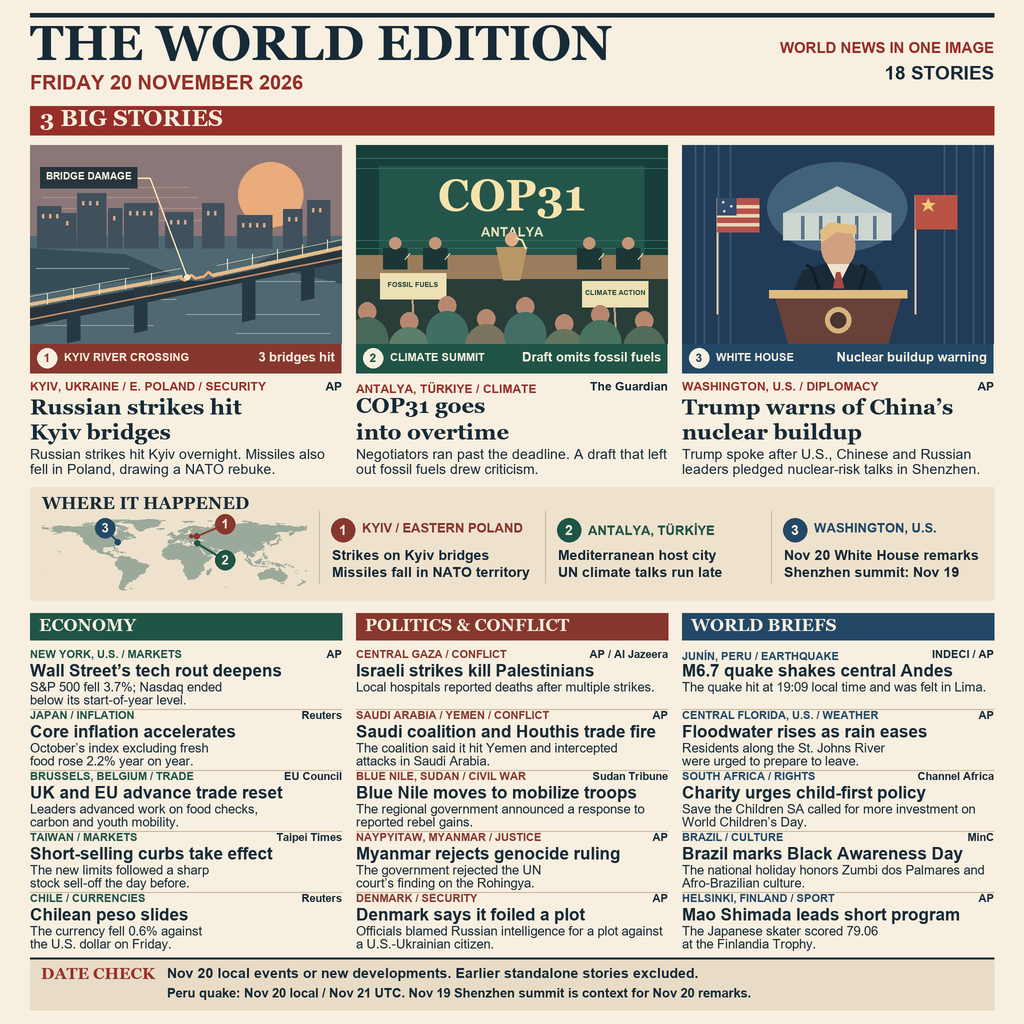
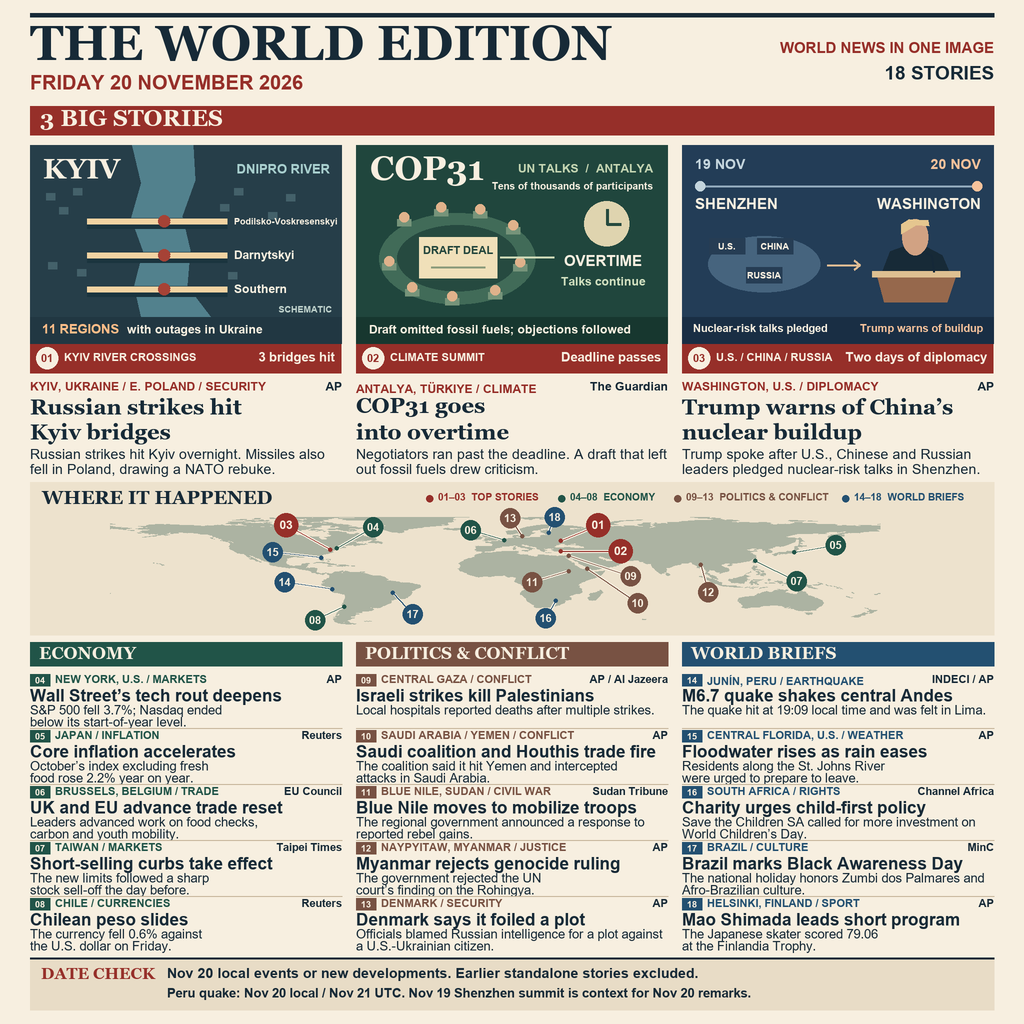
Explain the leads and map all eighteen Ver.4 stories

diff --git a/render_v4.py b/render_v4.py
@@ -1,14 +1,17 @@
-"""Render the three-lead Ver.4 with an atlas strip and fifteen selected briefs."""
+"""Render Ver.4 with three explanatory panels and an atlas of all 18 stories."""
 
 import argparse
 import json
+from itertools import combinations
+from math import hypot
 from pathlib import Path
 
 from PIL import Image
 
 from edition_v3 import LEADS, SECTIONS
 from render_v3 import BOLD, COLUMN, INK, LEFT, PAGE, PAPER, PITCH, RED, RIGHT, RULE, SERIF
-from render_v3 import Canvas, draw_antalya, draw_kyiv, draw_washington, pixels
+from render_v3 import Canvas, pixels
+from v4_illustrations import climate_talks, kyiv_bridges, nuclear_timeline
 
 
 SELECTED = (
@@ -17,16 +20,15 @@ SELECTED = (
     ("peru", "flood", "children", "brazil", "skating"),
 )
 
-PLACES = (
-    ("KYIV / EASTERN POLAND", ("Strikes on Kyiv bridges", "Missiles fall in NATO territory"), "#87372e"),
-    ("ANTALYA, TÜRKİYE", ("Mediterranean host city", "UN climate talks run late"), "#1f5446"),
-    ("WASHINGTON, U.S.", ("Nov 20 White House remarks", "Shenzhen summit: Nov 19"), "#234866"),
-)
+ECONOMY = "#215448"
+POLITICS = "#785243"
+BRIEFS = "#235071"
+LAND_DATA = Path(__file__).with_name("assets") / "ne_110m_land.geojson"
 
 ART_NOTES = (
-    ("KYIV RIVER CROSSING", "3 bridges hit"),
-    ("CLIMATE SUMMIT", "Draft omits fossil fuels"),
-    ("WHITE HOUSE", "Nuclear buildup warning"),
+    ("KYIV RIVER CROSSINGS", "3 bridges hit"),
+    ("CLIMATE SUMMIT", "Deadline passes"),
+    ("U.S. / CHINA / RUSSIA", "Two days of diplomacy"),
 )
 
 LEAD_COPY = (
@@ -35,13 +37,52 @@ LEAD_COPY = (
     "Trump spoke after U.S., Chinese and Russian leaders pledged nuclear-risk talks in Shenzhen.",
 )
 
+# Verified event, venue or representative location, longitude/latitude, and label center.
+# Country-wide stories use representative points as documented in README.md.
+MAP_POINTS = {
+    "kyiv": ("Kyiv", 30.515, 50.435, 589, 525),
+    "cop31": ("Antalya", 30.698, 36.892, 609, 551),
+    "nuclear": ("Washington, D.C.", -77.011, 38.901, 310, 525),
+    "stocks": ("New York City", -73.996, 40.722, 388, 527),
+    "japan": ("Tokyo", 139.749, 35.687, 801, 545),
+    "uk-eu": ("Brussels", 4.331, 50.835, 475, 530),
+    "taiwan": ("Taipei", 121.568, 25.036, 766, 581),
+    "chile": ("Santiago", -70.651, -33.440, 336, 620),
+    "gaza": ("Deir al-Balah", 34.35, 31.42, 618, 576),
+    "yemen": ("Al Hudaydah", 42.951, 14.800, 624, 603),
+    "sudan": ("Ed Damazin", 34.350, 11.770, 530, 582),
+    "myanmar": ("Naypyitaw", 96.117, 19.769, 687, 592),
+    "denmark": ("Copenhagen", 12.565, 55.671, 510, 518),
+    "peru": ("Junín epicentral area", -76.19, -10.97, 309, 582),
+    "flood": ("Sanford, central St. Johns River", -81.280, 28.790, 298, 552),
+    "children": ("Pretoria", 28.227, -25.705, 542, 618),
+    "brazil": ("Brasília", -47.918, -15.781, 423, 614),
+    "skating": ("Helsinki", 24.932, 60.164, 550, 517),
+}
 
-def draw_locations(sheet, land_path):
-    sheet.rect((LEFT, 487, RIGHT, 600), "#eee2cd")
-    sheet.text(42, 497, "WHERE IT HAPPENED", 17, INK, SERIF)
+
+def badge(sheet, number, x, y, color, radius, size):
+    sheet.oval((x-radius, y-radius, x+radius, y+radius), color)
+    sheet.text(x, y, f"{number:02}", size, PAPER, anchor="mm")
+
+
+def draw_locations(sheet, land_path, stories):
+    sheet.rect((LEFT, 482, RIGHT, 635), "#ede2cd")
+    sheet.text(42, 491, "WHERE IT HAPPENED", 19, INK, SERIF)
+    for x, label, color in (
+        (426, "01–03  TOP STORIES", RED),
+        (558, "04–08  ECONOMY", ECONOMY),
+        (674, "09–13  POLITICS & CONFLICT", POLITICS),
+        (842, "14–18  WORLD BRIEFS", BRIEFS),
+    ):
+        sheet.oval((x, 495, x+7, 502), color)
+        sheet.text(x+12, 493, label, 10, color)
+
+    def atlas_x(x):
+        return 512 + (x - 512) * 1.12
 
     def project(lon, lat):
-        return 42 + (lon + 180) * 0.735, 519 + (84 - lat) * 0.51
+        return atlas_x(153 + (lon + 180) * 1.91), 517 + (80 - lat) * 0.79
 
     data = json.loads(land_path.read_text(encoding="utf-8"))
     for feature in data["features"]:
@@ -52,28 +93,26 @@ def draw_locations(sheet, land_path):
         for exterior, *_ in shapes:
             if max(lat for _, lat in exterior) >= -60:
                 points = tuple(value for lon, lat in exterior
-                               for value in project(lon, max(lat, -60)))
-                sheet.polygon(points, "#9ba99b")
+                               for value in project(lon, min(80, max(lat, -58))))
+                sheet.polygon(points, "#acb3a2")
 
-    markers = ((30.52, 50.45, 225, 524), (30.70, 36.90, 225, 560), (-77.04, 38.91, 105, 528))
-    poland_x, poland_y = project(22.9, 50.6)
-    sheet.oval((poland_x-2, poland_y-2, poland_x+2, poland_y+2), PLACES[0][2])
-    for index, ((lon, lat, x, y), (name, lines, color)) in enumerate(
-        zip(markers, PLACES, strict=True), start=1
-    ):
+    markers = []
+    for number, (story, color) in enumerate(stories, start=1):
+        _, lon, lat, x, y = MAP_POINTS[story.id]
+        x = atlas_x(x)
+        radius = 12 if number <= 3 else 10
+        if not (LEFT+radius <= x <= RIGHT-radius and 505+radius <= y <= 635-radius):
+            raise ValueError(f"Map label outside its area: {story.id}")
+        markers.append((number, color, x, y, radius))
         px, py = project(lon, lat)
-        sheet.line((px, py, x, y), color, 2)
-        sheet.oval((px-3, py-3, px+3, py+3), color)
-        sheet.oval((x-10, y-10, x+10, y+10), color)
-        sheet.text(x, y, str(index), 13, PAPER, anchor="mm")
-
-        left = 319 + (index-1) * 226
-        sheet.line((left, 511, left, 583), RULE)
-        sheet.oval((left+12, 518, left+36, 542), color)
-        sheet.text(left+24, 530, str(index), 14, PAPER, anchor="mm")
-        sheet.text(left+43, 523, name, 13, color, limit=178)
-        for row, words in enumerate(lines):
-            sheet.text(left+13, 550+17*row, words, 14, face=BOLD, limit=207)
+        sheet.line((px, py, x, y), PAPER, 3)
+        sheet.line((px, py, x, y), color, 1.25)
+        sheet.oval((px-2, py-2, px+2, py+2), color)
+    for first, second in combinations(markers, 2):
+        if hypot(first[2]-second[2], first[3]-second[3]) < first[4]+second[4]+2:
+            raise ValueError(f"Overlapping map labels: {first[0]} and {second[0]}")
+    for number, color, x, y, radius in markers:
+        badge(sheet, number, x, y, color, radius, 12 if number <= 3 else 11)
 
 
 def render(land_path, fonts, output):
@@ -82,28 +121,30 @@ def render(land_path, fonts, output):
     sheet.text(LEFT, 25, "THE WORLD EDITION", 49, face=SERIF)
     sheet.text(LEFT, 75, "FRIDAY 20 NOVEMBER 2026", 20, RED)
     sheet.text(RIGHT, 42, "WORLD NEWS IN ONE IMAGE", 15, RED, anchor="rt")
-    story_count = len(LEADS) + sum(map(len, SELECTED))
-    sheet.text(RIGHT, 66, f"{story_count} STORIES", 19, anchor="rt")
+    sections = []
+    for (name, stories), ids, color in zip(SECTIONS, SELECTED,
+                                            (ECONOMY, POLITICS, BRIEFS), strict=True):
+        by_id = {story.id: story for story in stories}
+        sections.append((name, tuple(by_id[story_id] for story_id in ids), color))
+    mapped_stories = [(story, RED) for story in LEADS]
+    mapped_stories.extend((story, color) for _, stories, color in sections for story in stories)
+    if len(mapped_stories) != len(MAP_POINTS) or {s.id for s, _ in mapped_stories} != MAP_POINTS.keys():
+        raise ValueError("Every article must have exactly one map point")
+    sheet.text(RIGHT, 66, f"{len(mapped_stories)} STORIES", 19, anchor="rt")
 
     sheet.rect((LEFT, 106, RIGHT, 135), RED)
     sheet.text(LEFT+10, 110, "3 BIG STORIES", 23, PAPER, SERIF)
-    scenes = (draw_kyiv, draw_antalya, draw_washington)
-    backgrounds = ("#8c7778", "#214b45", "#223b57")
-    for index, (story, scene, bg, (scene_label, finding), (_, _, color), summary) in enumerate(
-        zip(LEADS, scenes, backgrounds, ART_NOTES, PLACES, LEAD_COPY, strict=True), start=1
+    scenes = (kyiv_bridges, climate_talks, nuclear_timeline)
+    for index, (story, scene, (scene_label, finding), summary) in enumerate(
+        zip(LEADS, scenes, ART_NOTES, LEAD_COPY, strict=True), start=1
     ):
         x = LEFT + (index-1)*PITCH
-        art = Canvas(COLUMN, 199, bg, fonts)
+        art = Canvas(COLUMN, 199, PAPER, fonts)
         scene(art)
-        if story.id == "kyiv":
-            art.line((157, 132, 120, 33, 106, 33), "#f6e3b6", 1.5)
-            art.oval((154, 129, 160, 135), "#f6e3b6")
-            art.rect((10, 22, 107, 43), "#28343b")
-            art.text(16, 27, "BRIDGE DAMAGE", 10, PAPER)
         sheet.image.paste(art.image, pixels((x, 145)))
-        sheet.rect((x, 344, x+COLUMN-1, 373), color)
-        sheet.oval((x+7, 348, x+27, 368), PAPER)
-        sheet.text(x+17, 358, str(index), 12, color, anchor="mm")
+        sheet.rect((x, 344, x+COLUMN-1, 373), RED)
+        sheet.oval((x+6, 347, x+28, 369), PAPER)
+        sheet.text(x+17, 358, f"{index:02}", 11, RED, anchor="mm")
         note_width = COLUMN - 49 - sheet.width(finding, 13, BOLD)
         sheet.text(x+34, 353, scene_label, 11, PAPER, limit=note_width)
         sheet.text(x+COLUMN-7, 352, finding, 13, PAPER, anchor="rt")
@@ -114,24 +155,24 @@ def render(land_path, fonts, output):
             sheet.text(x, 398+25*row, words, 22, face=SERIF, limit=COLUMN)
         sheet.paragraph(x, 449, summary, 14, COLUMN, 2, 15)
 
-    draw_locations(sheet, land_path)
+    draw_locations(sheet, land_path, mapped_stories)
 
-    for col, ((name, stories), ids) in enumerate(zip(SECTIONS, SELECTED, strict=True)):
+    for col, (name, stories, color) in enumerate(sections):
         x = LEFT + col*PITCH
-        color = ("#1f5446", "#87372e", "#234866")[col]
-        sheet.rect((x, 613, x+COLUMN, 640), color)
-        sheet.text(x+9, 619, name, 17, PAPER, SERIF)
-        by_id = {story.id: story for story in stories}
-        for row, story_id in enumerate(ids):
-            story = by_id[story_id]
-            y = 650 + 61*row
-            available = COLUMN - sheet.width(story.source, 11, BOLD) - 6
-            sheet.text(x, y, f"{story.where} / {story.beat}".upper(), 11, color, limit=available)
+        sheet.rect((x, 642, x+COLUMN, 666), color)
+        sheet.text(x+9, 647, name, 17, PAPER, SERIF)
+        for row, story in enumerate(stories):
+            number = len(LEADS) + sum(len(entries) for _, entries, _ in sections[:col]) + row + 1
+            y = 675 + 56*row
+            sheet.rect((x, y-1, x+20, y+11), color)
+            sheet.text(x+10, y+5, f"{number:02}", 9, PAPER, anchor="mm")
+            available = COLUMN - sheet.width(story.source, 11, BOLD) - 31
+            sheet.text(x+25, y, f"{story.where} / {story.beat}".upper(), 11, color, limit=available)
             sheet.text(x+COLUMN, y, story.source, 11, anchor="rt")
             sheet.text(x, y+14, story.headline, 17, limit=COLUMN)
-            sheet.paragraph(x, y+32, story.detail, 13, COLUMN, 2, 13)
-            if row < len(ids)-1:
-                sheet.line((x, y+59, x+COLUMN, y+59), RULE)
+            sheet.paragraph(x, y+30, story.detail, 13, COLUMN, 2, 12)
+            if row < len(stories)-1:
+                sheet.line((x, y+53, x+COLUMN, y+53), RULE)
 
     sheet.rect((LEFT, 958, RIGHT, 1010), "#e8dcc6")
     sheet.line((LEFT, 958, RIGHT, 958), INK, 2)
@@ -143,7 +184,7 @@ def render(land_path, fonts, output):
 
 if __name__ == "__main__":
     parser = argparse.ArgumentParser(description=__doc__)
-    parser.add_argument("land", type=Path)
+    parser.add_argument("land", type=Path, nargs="?", default=LAND_DATA)
     parser.add_argument("--fonts", type=Path, default=Path("C:/Windows/Fonts"))
     options = parser.parse_args()
     render(options.land, options.fonts, Path(__file__).with_name("world-edition-v4.png"))

diff --git a/v4_illustrations.py b/v4_illustrations.py
@@ -1,0 +1,77 @@
+"""Original explanatory panels for Ver.4, drawn in a common newsroom style."""
+
+from render_v3 import INK, PAPER, SERIF
+
+
+def kyiv_bridges(art):
+    """Show the three reported crossings without assigning damage severity."""
+    art.rect((0, 0, 312, 199), "#263e49")
+    art.polygon((102, 0, 163, 0, 165, 35, 152, 71, 160, 105,
+                 157, 141, 183, 175, 180, 199, 111, 199, 111, 172,
+                 104, 141, 113, 106, 101, 73, 111, 38), "#52818d")
+    for x, y in ((16, 48), (29, 62), (43, 43), (190, 59), (204, 43),
+                 (238, 67), (256, 49), (18, 117), (47, 124), (198, 127)):
+        art.rect((x, y, x+9, y+7), "#44616a")
+    art.text(13, 14, "KYIV", 28, PAPER, SERIF)
+    art.text(300, 19, "DNIPRO RIVER", 13, "#a8cfce", anchor="rt")
+    for y, name in ((76, "Podilsko-Voskresenskyi"), (110, "Darnytskyi"), (144, "Southern")):
+        art.line((57, y+2, 197, y+2), "#1a343e", 11)
+        art.line((57, y, 197, y), "#f2d3a2", 6)
+        art.oval((128, y-6, 140, y+6), "#a64236")
+        art.line((140, y, 197, y), "#f2d3a2", 1)
+        art.text(204, y, name, 9 if y == 76 else 12, PAPER, anchor="lm", limit=105)
+    art.rect((0, 172, 312, 199), "#213742")
+    art.text(12, 179, "11 REGIONS", 13, "#ffbd88")
+    art.text(97, 180, "with outages in Ukraine", 12, PAPER)
+    art.text(302, 161, "SCHEMATIC", 9, "#bed1cb", anchor="rt")
+
+
+def climate_talks(art):
+    art.rect((0, 0, 312, 199), "#20463d")
+    art.text(14, 11, "COP31", 34, PAPER, SERIF)
+    art.text(297, 19, "UN TALKS  /  ANTALYA", 12, "#c4d5b2", anchor="rt")
+    art.text(297, 37, "Tens of thousands of participants", 10, PAPER, anchor="rt")
+    # Delegations around the floor, with a shared draft and a deadline clock.
+    art.oval((23, 68, 179, 159), "#416b58")
+    art.oval((41, 80, 161, 146), "#264a40")
+    for x, y in ((48, 75), (85, 65), (124, 67), (157, 83), (164, 120),
+                 (139, 148), (96, 154), (56, 145), (33, 119)):
+        art.rect((x-7, y-1, x+7, y+6), "#76947a")
+        art.oval((x-5, y-8, x+5, y+2), "#e0b28b")
+    art.rect((63, 92, 141, 133), "#f0e0b9")
+    art.text(102, 101, "DRAFT DEAL", 11, "#22453c", anchor="mt")
+    art.line((75, 122, 129, 122), "#8d9c7c", 2)
+    art.line((144, 112, 198, 112), "#cdd9b7", 2)
+    art.oval((228, 56, 273, 101), "#dfd4af")
+    art.line((251, 64, 251, 79, 265, 79), "#25493e", 3)
+    art.text(247, 110, "OVERTIME", 15, PAPER, anchor="mt")
+    art.text(247, 132, "Talks continue", 12, "#d0dfbf", anchor="mt")
+    art.rect((0, 172, 312, 199), "#17372f")
+    art.text(13, 180, "Draft omitted fossil fuels; objections followed", 12, PAPER)
+
+
+def nuclear_timeline(art):
+    art.rect((0, 0, 312, 199), "#233d57")
+    art.text(13, 14, "19 NOV", 14, "#c4d5dd")
+    art.text(299, 14, "20 NOV", 14, "#f6c29b", anchor="rt")
+    art.line((13, 41, 299, 41), "#92aabc", 2)
+    art.oval((13, 36, 23, 46), "#c4d5dd")
+    art.oval((290, 36, 300, 46), "#f6c29b")
+    art.text(13, 53, "SHENZHEN", 15, PAPER)
+    art.text(299, 53, "WASHINGTON", 15, PAPER, anchor="rt")
+    # A shared negotiating table and the following day's podium.
+    art.oval((26, 91, 138, 147), "#46647e")
+    for x, y, name in ((45, 101, "U.S."), (93, 101, "CHINA"), (82, 130, "RUSSIA")):
+        art.rect((x-18, y-8, x+18, y+8), "#263d54")
+        art.text(x, y, name, 9, PAPER, anchor="mm")
+    art.line((145, 120, 178, 120), "#dfbc94", 2)
+    art.line((172, 115, 178, 120, 172, 125), "#dfbc94", 2)
+    art.polygon((198, 132, 208, 106, 222, 101, 243, 101, 260, 110, 269, 131), INK)
+    art.oval((220, 74, 246, 110), "#d1a283")
+    art.polygon((219, 89, 219, 79, 227, 74, 246, 75, 247, 81, 234, 80), "#e5c68f")
+    art.polygon((194, 127, 275, 127, 265, 157, 202, 157), "#96684c")
+    art.rect((190, 126, 278, 132), "#dec091")
+    art.line((252, 127, 250, 111, 244, 108), "#152838", 2)
+    art.rect((0, 172, 312, 199), "#192e44")
+    art.text(11, 179, "Nuclear-risk talks pledged", 11, PAPER)
+    art.text(301, 179, "Trump warns of buildup", 11, "#f6c29b", anchor="rt")

diff --git a/README.md b/README.md
@@ -4,7 +4,7 @@
 
 # The World Edition
 
-2026年11月20日（金）の世界ニュース18件をまとめた英語版。Ver.4は「3 BIG STORIES」を上段に置き、同じ番号で挿絵、位置図、地名を結び付けた。下段は経済、政治と紛争、世界短報の各5件。記事ごとに場所、説明、出典を記した。
+2026年11月20日（金）の世界ニュース18件をまとめた英語版。Ver.4は「3 BIG STORIES」の図解に続き、全18件を番号で引ける世界地図を掲載した。下段は経済、政治と紛争、世界短報の各5件。記事ごとに場所、説明、出典を記した。
 
 ![The World Edition, 20 November 2026, Version 4](world-edition-v4.png)
 
@@ -24,7 +24,13 @@ Get-FileHash output/entry.png -Algorithm SHA256
 
 ### 画像を編集する場合
 
-`python render_v4.py <land.geojson> --fonts <フォントのディレクトリ>` でVer.4を再描画できる。描画にはPillow 12.3.0、ArialとGeorgia、Natural Earthの陸域データのローカルコピーを使う。採用記事IDは `render_v4.py` にあり、出典は [編集台帳](edition_v3.py) の対応する記事に記載した。 [Natural Earth 陸域データ](https://github.com/nvkelso/natural-earth-vector/blob/master/geojson/ne_110m_land.geojson)
+`python render_v4.py` でVer.4を再描画できる。描画にはPillow 12.3.0、ArialとGeorgia、同梱のNatural Earthの陸域データを使う。フォントの場所は `--fonts` で指定できる。採用記事IDと座標は [render_v4.py](render_v4.py)、出典は [編集台帳](edition_v3.py) に記載した。 [Natural Earth 陸域データ](https://github.com/nvkelso/natural-earth-vector/blob/master/geojson/ne_110m_land.geojson)
+
+### Ver.4の図解と地図
+
+掲載18件を2026年11月22日JSTに再照合した。キーウの3橋は市長が発表した橋名を採用し、ドニプロ川を渡る関係を模式図で示した。被害箇所の形状や程度は模式図に反映していない。「11 REGIONS」はウクライナ国内で緊急停電が起きた地域数。COP31は20日に協議が延長された時点を掲載し、深圳の3か国会談（19日）とワシントンでの発言（20日）を時系列で区別した。 [キーウの橋・Kyiv Independent](https://kyivindependent.com/russia-launches-mass-missile-attack-against-ukraine-after-putin-vows-revenge/) · [停電・AP](https://apnews.com/article/433e18f00cbd37a2a9da94e60fce0e07) · [COP31・UNFCCC](https://unfccc.int/cop31) · [深圳の共同宣言](https://www.fmprc.gov.cn/eng/xw/zyxw/202611/t20261119_12063224.html)
+
+番号の引き出し線は発生地、会場、発表地、または地域の代表地点を指す。複数地点を扱う01はキーウ、09は中部ガザのデイル・アルバラフ、10はイエメンのホデイダ、15はセントジョンズ川沿いのサンフォードを採用。日本、台湾、チリ、デンマーク、南アフリカ、ブラジルは記事の対象地域を示すため、東京、台北、サンティアゴ、コペンハーゲン、プレトリア、ブラジリアを代表点とした。ペルー地震の座標は現地当局の発表を使用した。 [Natural Earth 地名データ](https://www.naturalearthdata.com/downloads/10m-cultural-vectors/10m-populated-places/) · [GeoNames・デイル・アルバラフ](https://www.geonames.org/281141/dayr-al-balah.html) · [GeoNames・コペンハーゲン](https://www.geonames.org/2618424/copenhagen.html) · [ペルー防災当局](https://portal.indeci.gob.pe/emergencias/reporte-preliminar-n-o-1159-20-11-2026-coen-indeci-1940-horas-sismo-de-magnitud-6-7-con-epicentro-en-el-junin-junin/)
 
 `python render_v3.py --fonts <フォントのディレクトリ>` でVer.3のPNGを再描画する。制作用にPillow 12.3.0とWindowsのArial、Georgiaを使用した。挿絵は各記事の場面を伝えるオリジナルの図解。画像の出力処理にPillowやフォントは不要。
 
